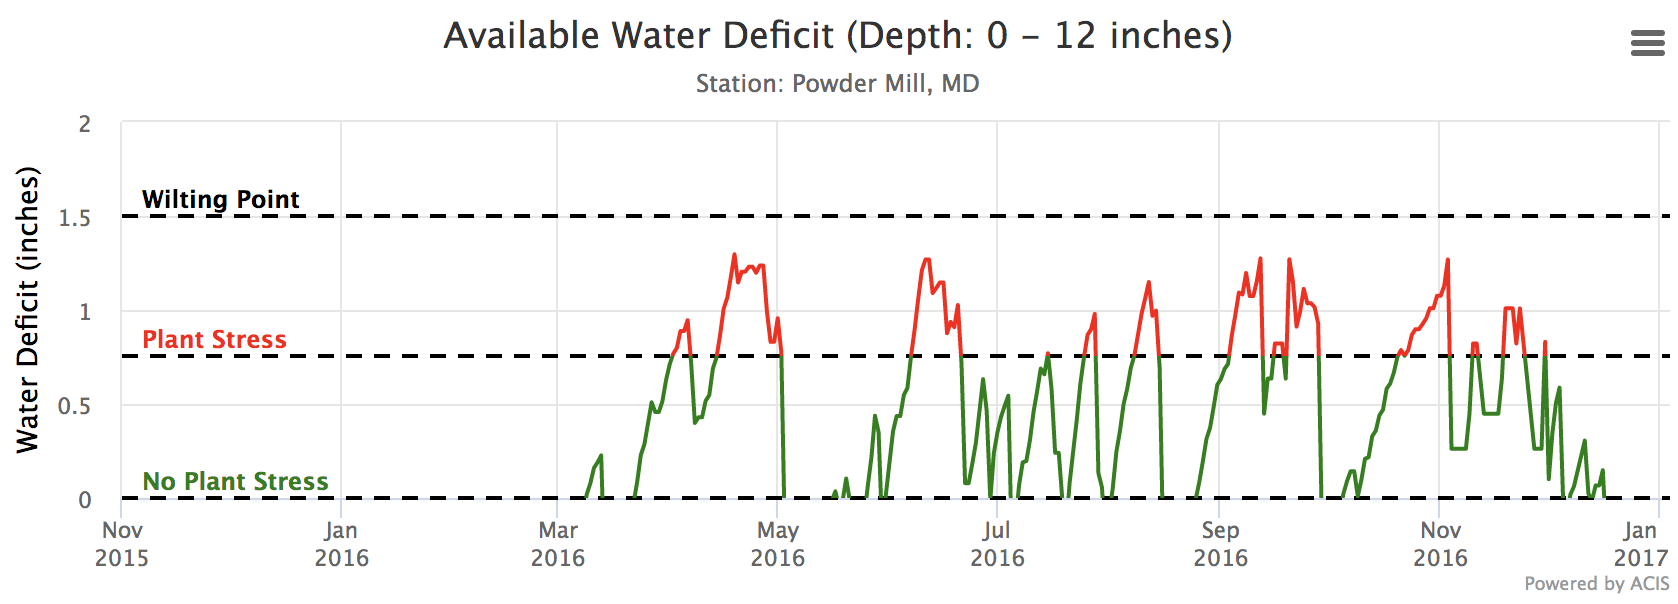
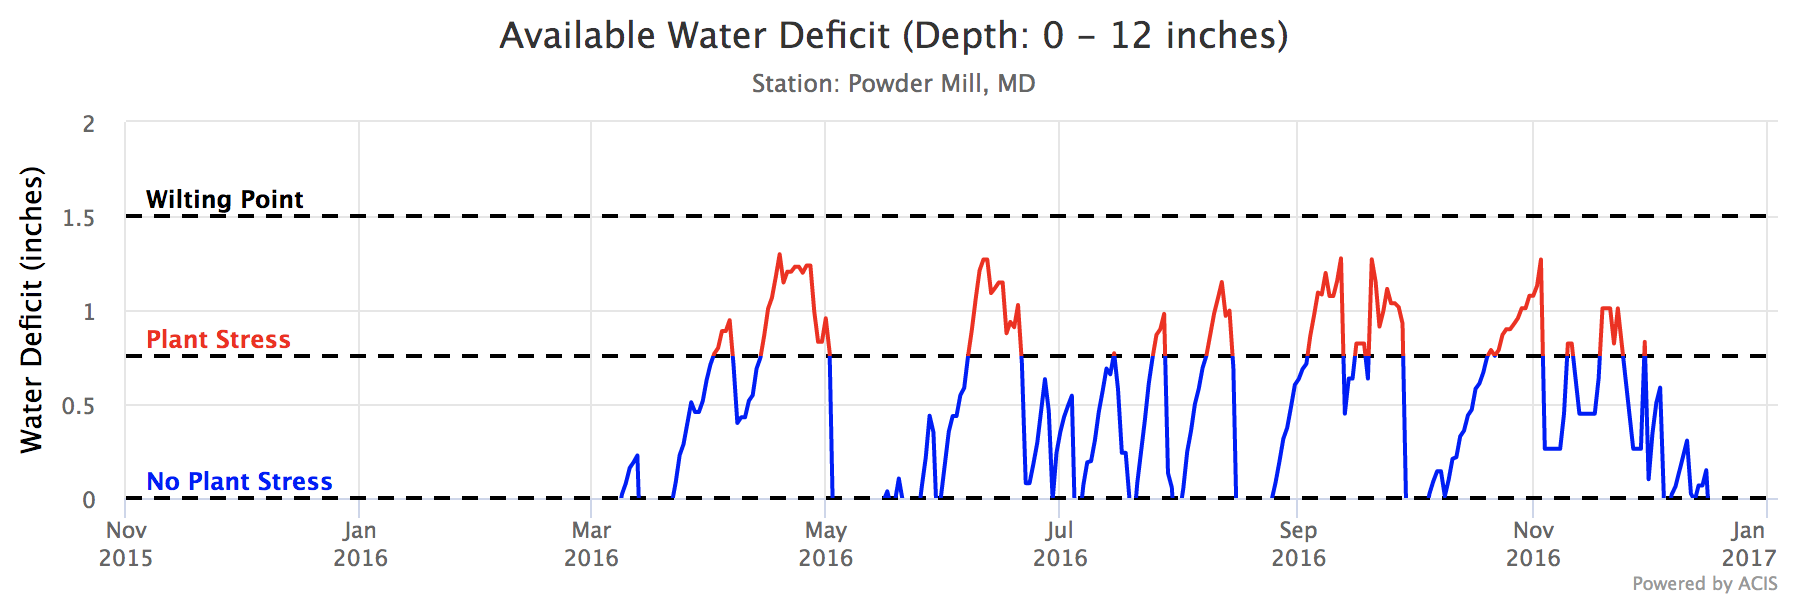
updates

diff --git a/src/components/stem/WaterdefDoc/index.js b/src/components/stem/WaterdefDoc/index.js
@@ -111,7 +111,7 @@ class WaterdefDoc extends Component {
                     <Typography align="left" paragraph variant="body1">
                       <i>2. Output</i><br/><br/>
                       Data in this tool can be viewed in either graphical or tabular form by selecting 'chart' or 'table' above each tool. Charts can also be downloaded as an image, and tables can be downloaded as a CSV file, by clicking in the download icon. Below, the chart views and features are highlighted.<br/><br/>
-                      Water deficit values that correspond to your selections will appear below the user options. Below is a sample chart showing all of the features. The zero line on the chart represents conditions when no water deficit exists. This zero line is also representative of when soil moisture amounts are at field capacity. At these conditions, the maximum amount of water possible is available to plants, and plants are not under any water stress (indicated by green color). As conditions begin to dry in the soil, water deficits may reach a point when plants begin to experience water stress (indicated by red color). This level of water stress is typically about halfway between field capacity and the wilting point. If natural precipitation does not provide relief, properly timed irrigation may be necessary to provide the water necessary to eliminate plant stress. When monitoring conditions for the current year, these data are available through the current day in order to assist with timely decision making.<br/><br/>
+                      Water deficit values that correspond to your selections will appear below the user options. Below is a sample chart showing all of the features. The zero line on the chart represents conditions when no water deficit exists. This zero line is also representative of when soil moisture amounts are at field capacity. At these conditions, the maximum amount of water possible is available to plants, and plants are not under any water stress (indicated by blue color). As conditions begin to dry in the soil, water deficits may reach a point when plants begin to experience water stress (indicated by red color). This level of water stress is typically about halfway between field capacity and the wilting point. If natural precipitation does not provide relief, properly timed irrigation may be necessary to provide the water necessary to eliminate plant stress. When monitoring conditions for the current year, these data are available through the current day in order to assist with timely decision making.<br/><br/>
                       <img className="doc-image" src={waterdefoutput} alt="Water Deficit Output" /><br/><br/>
                       Also provided are data measured by the SCAN station equipment that are relevent to calculating the water deficit. Volumetric soil moisture at up to five soil depths and daily precipitation totals are included, with samples below. Specific depths may be toggled in the live chart for viewing preference.<br/><br/>
                       <img className="doc-image" src={soilmprecipoutput} alt="Soil Moisture and Precip Output" />

diff --git a/src/components/stem/HeatidxDoc/index.js b/src/components/stem/HeatidxDoc/index.js
@@ -109,7 +109,7 @@ class HeatIdxDoc extends Component {
                       <i>Habeeb, A. A., Gad, A. E., and Atta, M. A. 2018. Temperature-Humidity Indices as Indicators to Heat Stress of Climatic Conditions with Relation to Production and Reproduction of Farm Animals. International Journal of Biotechnology and Recent Advances 1(1): 35-50.</i><br/><br/>
                     </Typography>
                     <Typography align="left" paragraph variant="body1">
-                      <b>3) Big Animals (general case for cattle, bison, sheep, goats, etc)</b><br/><br/>
+                      <b>3) Large Animals (general case for cattle, bison, sheep, goats, etc)</b><br/><br/>
                       Larger animals are grouped together in this general case that only requires temperature and humidity for calculation. These animals use similar biological cooling methods, so extreme environmental conditions can affect them in a similar way.<br/><br/>
                       <i>Habeeb, A. A., Gad, A. E., and Atta, M. A. 2018. Temperature-Humidity Indices as Indicators to Heat Stress of Climatic Conditions with Relation to Production and Reproduction of Farm Animals. International Journal of Biotechnology and Recent Advances 1(1): 35-50.</i><br/><br/>
                     </Typography>
@@ -131,7 +131,7 @@ class HeatIdxDoc extends Component {
                       Once your site is selected, there are two different types of data views to select from, <i>Current Heat Indices</i> and <i>Historical Frequencies</i>.<br/><br/>
                       <b>a) Current Heat Indices</b> provide hourly heat index conditions over the past 24-48 hours.<br/>
                       <b>b) Historical Frequencies</b> provide the number of hours during each year in which the selected heat index surpassed significant heat stress thresholds.<br/><br/>
-                      Finally, the type of heat index must be selected, based on the animal of interest. Below represents what these user interfaces look like in the tool:
+                      Finally, the type of heat index must be selected, based on the animal of interest. Below represents what these user interfaces look like in the tool:<br/>
                       <img className="doc-image" src={viewselection} alt="Livestock Heat Index View Selection" /><br/>
                       <img className="doc-image-2" src={userinput} alt="Livestock Heat Index User Input" /><br/><br/>
                     </Typography>

diff --git a/src/components/tools/LivestockIdxToolNew/CurrentView/LivestockIdxCharts/index.js b/src/components/tools/LivestockIdxToolNew/CurrentView/LivestockIdxCharts/index.js
@@ -76,7 +76,7 @@ class LivestockIdxCharts extends Component {
             {typeToDisplay==='biganimal' &&
               <Grid item>
                  <Typography variant="h5">
-                     Big Animal Heat Index (cattle, bison, sheep, goats, etc)
+                     Large Animal Heat Index (cattle, bison, sheep, goats, etc)
                  </Typography>
               </Grid>
             }
@@ -168,12 +168,12 @@ class LivestockIdxCharts extends Component {
             tickFormatter={formatXAxisForDate}
             interval={11}
           />
-          <YAxis tick={false} label={{ value: 'Big Animal Heat Stress (THI)', angle: -90, position:'insideLeft', offset: -100 }} domain={[70, 84]}/>
+          <YAxis tick={false} label={{ value: 'Large Animal Heat Stress (THI)', angle: -90, position:'insideLeft', offset: -100 }} domain={[70, 84]}/>
           <Tooltip/>
           <ReferenceLine y={72} label={{position: "left", value:" 72 Moderate Heat Stress", offset:-140}} stroke="yellow" isFront={true} />
           <ReferenceLine y={74} label={{position: "left", value:" 74 Severe Heat Stress", offset:-122}} stroke="orange" isFront={true} />
           <ReferenceLine y={78} label={{position: "left", value:" 78 Very Severe Heat Stress", offset:-156}} stroke="brown" isFront={true} />
-          <Area type='monotone' name={'Big Animal Heat Index'} dataKey='biganimal' stroke='#D3D3D3' fill='#D3D3D3'/>
+          <Area type='monotone' name={'Large Animal Heat Index'} dataKey='biganimal' stroke='#D3D3D3' fill='#D3D3D3'/>
         </AreaChart>
       </ResponsiveContainer>
             </Grid>
@@ -193,7 +193,7 @@ class LivestockIdxCharts extends Component {
             tickFormatter={formatXAxisForDate}
             interval={11}
           />
-          <YAxis tick={false} label={{ value: 'Big Animal Heat Stress (THI)', angle: -90, position:'insideLeft', offset: -100 }} domain={[80, 90]}/>
+          <YAxis tick={false} label={{ value: 'Large Animal Heat Stress (THI)', angle: -90, position:'insideLeft', offset: -100 }} domain={[80, 90]}/>
           <Tooltip/>
           <ReferenceLine y={82} label={{position: "left", value:" 82 Moderate Heat Stress", offset:-140}} stroke="yellow" isFront={true} />
           <ReferenceLine y={84} label={{position: "left", value:" 84 Severe Heat Stress", offset:-122}} stroke="orange" isFront={true} />

diff --git a/src/components/stem/Resources/index.js b/src/components/stem/Resources/index.js
@@ -68,6 +68,23 @@ class Resources extends Component {
                   Resources
                 </Typography>
               </Grid>
+              <Grid item>
+                <Typography variant="body1" gutterBottom="true">
+                  <a href="https://www.noaa.gov/office-education/grants/noaa-assets#weather" target="_blank" rel="noopener noreferrer">National Oceanic and Atmospheric Administration Education Resources</a>
+                </Typography>
+                <Typography variant="body1" gutterBottom="true">
+                  <a href="https://www.nsf.gov/funding/programs.jsp?org=EHR" target="_blank" rel="noopener noreferrer">National Science Foundation Education Resources</a>
+                </Typography>
+                <Typography variant="body1" gutterBottom="true">
+                  <a href="https://www.climatehubs.usda.gov/tools/all" target="_blank" rel="noopener noreferrer">USDA Climate Hub Tools</a>
+                </Typography>
+                <Typography variant="body1" gutterBottom="true">
+                  <a href="https://www.weather.gov/jetstream/" target="_blank" rel="noopener noreferrer">National Weather Service - Jetstream - Online Weather School</a>
+                </Typography>
+                <Typography variant="body1" gutterBottom="true">
+                  <a href="https://worldwind.arc.nasa.gov/worldweather/" target="_blank" rel="noopener noreferrer">NASA World Weather</a>
+                </Typography>
+              </Grid>
             </Grid>
           </Grid>
         );

diff --git a/src/components/tools/WaterDefTool/DisplayWaterDeficitChart.js b/src/components/tools/WaterDefTool/DisplayWaterDeficitChart.js
@@ -60,7 +60,7 @@ const DisplayWaterDeficitChart = ({data,depthRangeTop,depthRangeBottom,units,stn
                   label:{
                       text:'No Plant Stress',
                       style: {
-                        color: 'green',
+                        color: '#0000FF',
                         fontWeight: 'bold'
                       }
                   }
@@ -73,7 +73,7 @@ const DisplayWaterDeficitChart = ({data,depthRangeTop,depthRangeBottom,units,stn
                   label:{
                       text:'Plant Stress',
                       style: {
-                        color: 'red',
+                        color: '#FF0000',
                         fontWeight: 'bold'
                       },
                   }
@@ -98,9 +98,9 @@ const DisplayWaterDeficitChart = ({data,depthRangeTop,depthRangeBottom,units,stn
             color: 'black',
             zones: [{
               value: (data.fc_ref - data.pwp_ref)/2.,
-              color: 'green'
+              color: '#0000FF'
             },{
-              color: 'red'
+              color: '#FF0000'
             }],
             data: data.data_series,
             zIndex: 102,

diff --git a/src/components/tools/LivestockIdxToolNew/CurrentView/LivestockIdxTables/index.js b/src/components/tools/LivestockIdxToolNew/CurrentView/LivestockIdxTables/index.js
@@ -43,7 +43,7 @@ class LivestockIdxTables extends Component {
         columns.push({name:'Date/Time', options:{filter:true,sort:true,display:true,download:true}})
         columns.push({name:'Cattle Heat Idx', options:{filter:false,sort:true,display:true,download:true}})
         columns.push({name:'Dairy Cow Heat Idx', options:{filter:false,sort:true,display:true,download:true}})
-        columns.push({name:'Big Animal Heat Idx', options:{filter:false,sort:true,display:true,download:true}})
+        columns.push({name:'Large Animal Heat Idx', options:{filter:false,sort:true,display:true,download:true}})
         columns.push({name:'Small Animal Heat Idx', options:{filter:false,sort:true,display:true,download:true}})
         columns.push({name:'Air Temp (°F)', options:{filter:false,sort:true,display:true,download:true}})
         columns.push({name:'Rel Humidity (%)', options:{filter:false,sort:true,display:false,download:true}})

diff --git a/src/components/tools/LivestockIdxToolNew/HistoricalView/index.js b/src/components/tools/LivestockIdxToolNew/HistoricalView/index.js
@@ -247,7 +247,7 @@ class HistoricalView extends Component {
         } else if (type==='cow') {
             return 'Dairy Cow'
         } else if (type==='biganimal') {
-            return 'Big Animal'
+            return 'Large Animal'
         } else if (type==='smallanimal') {
             return 'Small Animal'
         } else {
@@ -279,7 +279,7 @@ class HistoricalView extends Component {
             }
         } else if (type==='biganimal') {
             return {
-                'typeLabel':'Big Animal',
+                'typeLabel':'Large Animal',
                 'dataInfo': [
                     {'key':'very severe','label':'Very Severe','color':'#581845'},
                     {'key':'severe','label':'Severe','color':'#900C3F'},

diff --git a/src/components/stem/StemMenu/index.js b/src/components/stem/StemMenu/index.js
@@ -70,6 +70,10 @@ function ComponentProperty(props) {
                   <ListItemLinkShorthand to="/stem/heatidx_doc" primary="Livestock Heat Index" />
               </ul>
             </List>
+            <Divider />
+            <List component="nav">
+              <ListItemLinkShorthand to="/stem/resources" primary="Resources" />
+            </List>
           </div>
         </div>
     </Box>

diff --git a/src/components/tools/LivestockIdxToolNew/CurrentView/LivestockTypeButtonGroup/index.js b/src/components/tools/LivestockIdxToolNew/CurrentView/LivestockTypeButtonGroup/index.js
@@ -50,7 +50,7 @@ class LivestockTypeButtonGroup extends React.Component {
           <FormControlLabel
             value="biganimal"
             control={<Radio color="primary" />}
-            label="Big Animal"
+            label="Large Animal"
             labelPlacement="right"
           />
           <FormControlLabel

diff --git a/src/components/tools/LivestockIdxToolNew/HistoricalView/LivestockTypeButtonGroup/index.js b/src/components/tools/LivestockIdxToolNew/HistoricalView/LivestockTypeButtonGroup/index.js
@@ -50,7 +50,7 @@ class LivestockTypeButtonGroup extends React.Component {
           <FormControlLabel
             value="biganimal"
             control={<Radio color="primary" />}
-            label="Big Animal"
+            label="Large Animal"
             labelPlacement="right"
           />
           <FormControlLabel
